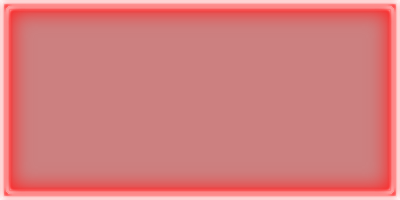
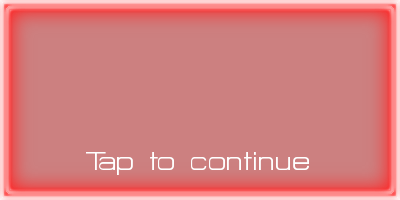
level 1 tutorial

Changed region(s): [[0.48, 0.75, 0.78, 0.87], [0.21, 0.75, 0.33, 0.87], [0.36, 0.75, 0.45, 0.87]]

diff --git a/core/src/com/jnv/bounded/level/ui/FirstTimeGuide.java b/core/src/com/jnv/bounded/level/ui/FirstTimeGuide.java
@@ -1,21 +1,53 @@
 package com.jnv.bounded.level.ui;
 
+import com.badlogic.gdx.scenes.scene2d.Stage;
 import com.badlogic.gdx.scenes.scene2d.ui.Image;
 import com.jnv.bounded.handlers.GameStateManager;
+import com.jnv.bounded.inputprocessors.InputListener;
+import com.jnv.bounded.resources.BoundedAssetManager;
+import com.jnv.bounded.utilities.TutorialDialogCoords;
 
+import java.util.ArrayList;
 import java.util.List;
 
 public class FirstTimeGuide {
 
+	private Stage stage;
+	private BoundedAssetManager res;
+	private List<Image> levelHelperMasks;
 	private List<Image> levelHelpers;
 	private Image endTexture;
 	private static final int[] numTextures = {
-			1, 1, 1, 1, 1, 1, 1, 1
+			15, 1, 1, 1, 1, 1, 1, 1
 	};
 
-	public FirstTimeGuide(int level, GameStateManager gsm) {
+	public FirstTimeGuide(final int level, GameStateManager gsm) {
+		stage = gsm.game().getStage();
+		res = gsm.game().res;
+		levelHelperMasks = new ArrayList<Image>();
+		levelHelpers = new ArrayList<Image>();
 		for (int i = 0; i < numTextures[level - 1]; i++) {
-			//levelHelpers.add();
+			levelHelperMasks.add(new Image(res.getTexture("helper-level1-mask" + (i + 1))));
+			levelHelpers.add(new Image(res.getTexture("helper-level1-" + (i + 1))));
+			levelHelpers.get(i).setX(TutorialDialogCoords.level1[i].x);
+			levelHelpers.get(i).setY(TutorialDialogCoords.level1[i].y);
+			addAppropriateListener(i, level);
 		}
+		stage.addActor(levelHelperMasks.get(0));
+		stage.addActor(levelHelpers.get(0));
+	}
+
+	private void addAppropriateListener(final int index, final int level) {
+		levelHelpers.get(index).addListener(new InputListener(levelHelpers.get(index)) {
+			@Override
+			public void doAction() {
+				levelHelperMasks.get(index).remove();
+				levelHelpers.get(index).remove();
+				if (index < numTextures[level - 1] - 1) {
+					stage.addActor(levelHelperMasks.get(index + 1));
+					stage.addActor(levelHelpers.get(index + 1));
+				}
+			}
+		});
 	}
 }

diff --git a/core/src/com/jnv/bounded/utilities/TutorialDialogCoords.java b/core/src/com/jnv/bounded/utilities/TutorialDialogCoords.java
@@ -1,0 +1,25 @@
+package com.jnv.bounded.utilities;
+
+import com.badlogic.gdx.math.Vector2;
+import com.jnv.bounded.main.Bounded;
+
+public final class TutorialDialogCoords {
+
+	public static final Vector2[] level1 = {
+			new Vector2((Bounded.WIDTH - 400) / 2, (Bounded.HEIGHT - 200) / 2),
+			new Vector2((Bounded.WIDTH - 400) / 2, (Bounded.HEIGHT - 200) / 2),
+			new Vector2(100, Bounded.HEIGHT - 220),
+			new Vector2(Bounded.WIDTH - 470, 150),
+			new Vector2((Bounded.WIDTH - 400) / 2, (Bounded.HEIGHT - 200) / 2),
+			new Vector2(Bounded.WIDTH - 400, 120),
+			new Vector2((Bounded.WIDTH - 400) / 2, 120),
+			new Vector2(970 - 85, 120),
+			new Vector2(810 - 85, 120),
+			new Vector2(100, 120),
+			new Vector2(240, 120),
+			new Vector2(380, 120),
+			new Vector2(540, 120),
+			new Vector2(610, 120),
+			new Vector2(0, 120)
+	};
+}

diff --git a/core/src/com/jnv/bounded/gamestates/LevelState.java b/core/src/com/jnv/bounded/gamestates/LevelState.java
@@ -25,6 +25,7 @@ import com.jnv.bounded.level.events.Panning;
 import com.jnv.bounded.level.managers.LevelEventsHandler;
 import com.jnv.bounded.level.managers.WallsHistoryManager;
 import com.jnv.bounded.level.maploader.TiledMapLoader;
+import com.jnv.bounded.level.ui.FirstTimeGuide;
 import com.jnv.bounded.level.ui.Toolbar;
 import com.jnv.bounded.main.Bounded;
 import com.jnv.bounded.utilities.LevelDistances;
@@ -60,9 +61,13 @@ public class LevelState extends GameState {
 	private Panning panning;
 	private float time = 0;
 	private Box2DDebugRenderer b2dr;
+	private FirstTimeGuide firstTimeGuide;
 
 	public LevelState(GameStateManager gsm) {
 		super(gsm);
+		if (level <= 8) {
+			firstTimeGuide = new FirstTimeGuide(level, gsm);
+		}
 		loadLevelServices();
 		loadInputProcessors();
 		loadCamsAndHUD();

diff --git a/core/src/com/jnv/bounded/utilities/TextureLoader.java b/core/src/com/jnv/bounded/utilities/TextureLoader.java
@@ -28,6 +28,7 @@ public class TextureLoader {
 	}
 
 	public void loadAll() {
+		loadFirstTimeHelpers();
 		loadBackground();
 		loadEntities();
 
@@ -42,6 +43,15 @@ public class TextureLoader {
 		loadMenuStateTextures();
 
 		loadInfoScreens();
+	}
+
+	private void loadFirstTimeHelpers() {
+		for (int i = 1; i <= 15; i++) {
+			bounded.res.loadTexture("helpers/level1/level1/" + i + ".png", "helper-level1-" + i);
+			bounded.res.loadTexture("helpers/level1/level1/mask" + i + ".png",
+					"helper-level1-mask" + i);
+		}
+		bounded.res.loadTexture("helpers/mask.png", "screen_mask");
 	}
 
 	private void loadBackground() {

diff --git a/core/src/com/jnv/bounded/level/ui/Toolbar.java b/core/src/com/jnv/bounded/level/ui/Toolbar.java
@@ -69,7 +69,7 @@ public class Toolbar {
 		stage.addActor(toolbarButton);
 	}
 
-	private void showToolbar() {
+	public void showToolbar() {
 		isToolbarShowing = true;
 		for (ToolbarButton toolbarButton : toolbarButtons) {
 			toolbarButton.setVisible(true);
@@ -77,7 +77,7 @@ public class Toolbar {
 		}
 	}
 
-	private void hideToolbar() {
+	public void hideToolbar() {
 		isToolbarShowing = false;
 		for (ToolbarButton toolbarButton : toolbarButtons) {
 			toolbarButton.setVisible(false);

diff --git a/core/src/com/jnv/bounded/utilities/Dimensions.java b/core/src/com/jnv/bounded/utilities/Dimensions.java
@@ -1,0 +1,30 @@
+package com.jnv.bounded.utilities;
+
+public class Dimensions {
+
+	private float x, y, width, height;
+
+	public Dimensions(float x, float y, float width, float height) {
+		this.x = x;
+		this.y = y;
+		this.width = width;
+		this.height = height;
+	}
+
+	// Getters
+	public float getX() {
+		return x;
+	}
+
+	public float getY() {
+		return y;
+	}
+
+	public float getWidth() {
+		return width;
+	}
+
+	public float getHeight() {
+		return height;
+	}
+}

diff --git a/core/src/com/jnv/bounded/gamestates/SplashScreen.java b/core/src/com/jnv/bounded/gamestates/SplashScreen.java
@@ -66,7 +66,7 @@ public class SplashScreen extends GameState {
 
 		calculateAngle();
 
-		loadingText.setText("Loading... " + format.format(game.res.getProgress() * 100 + 1) + "%");
+		loadingText.setText("Loading... " + format.format(game.res.getProgress() * 100) + "%");
 
 		stage.draw();
 	}
